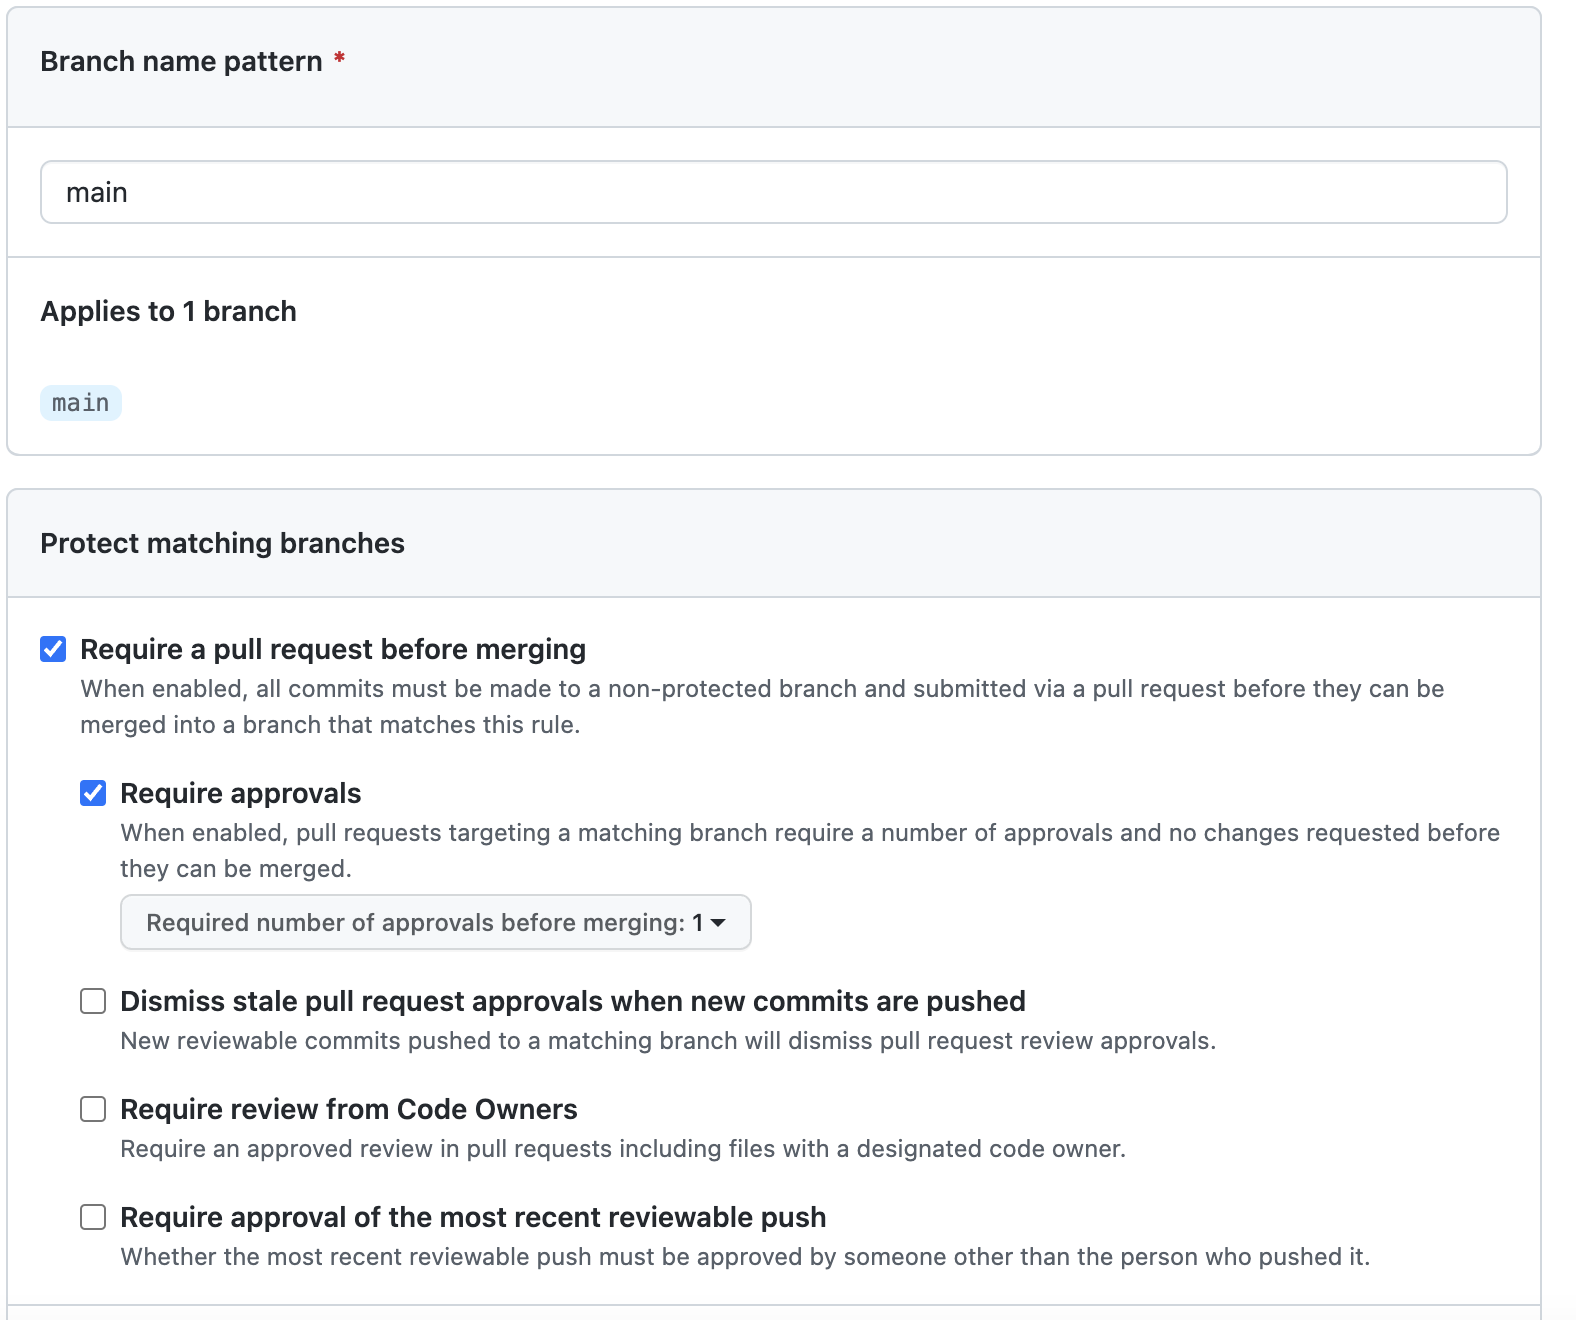
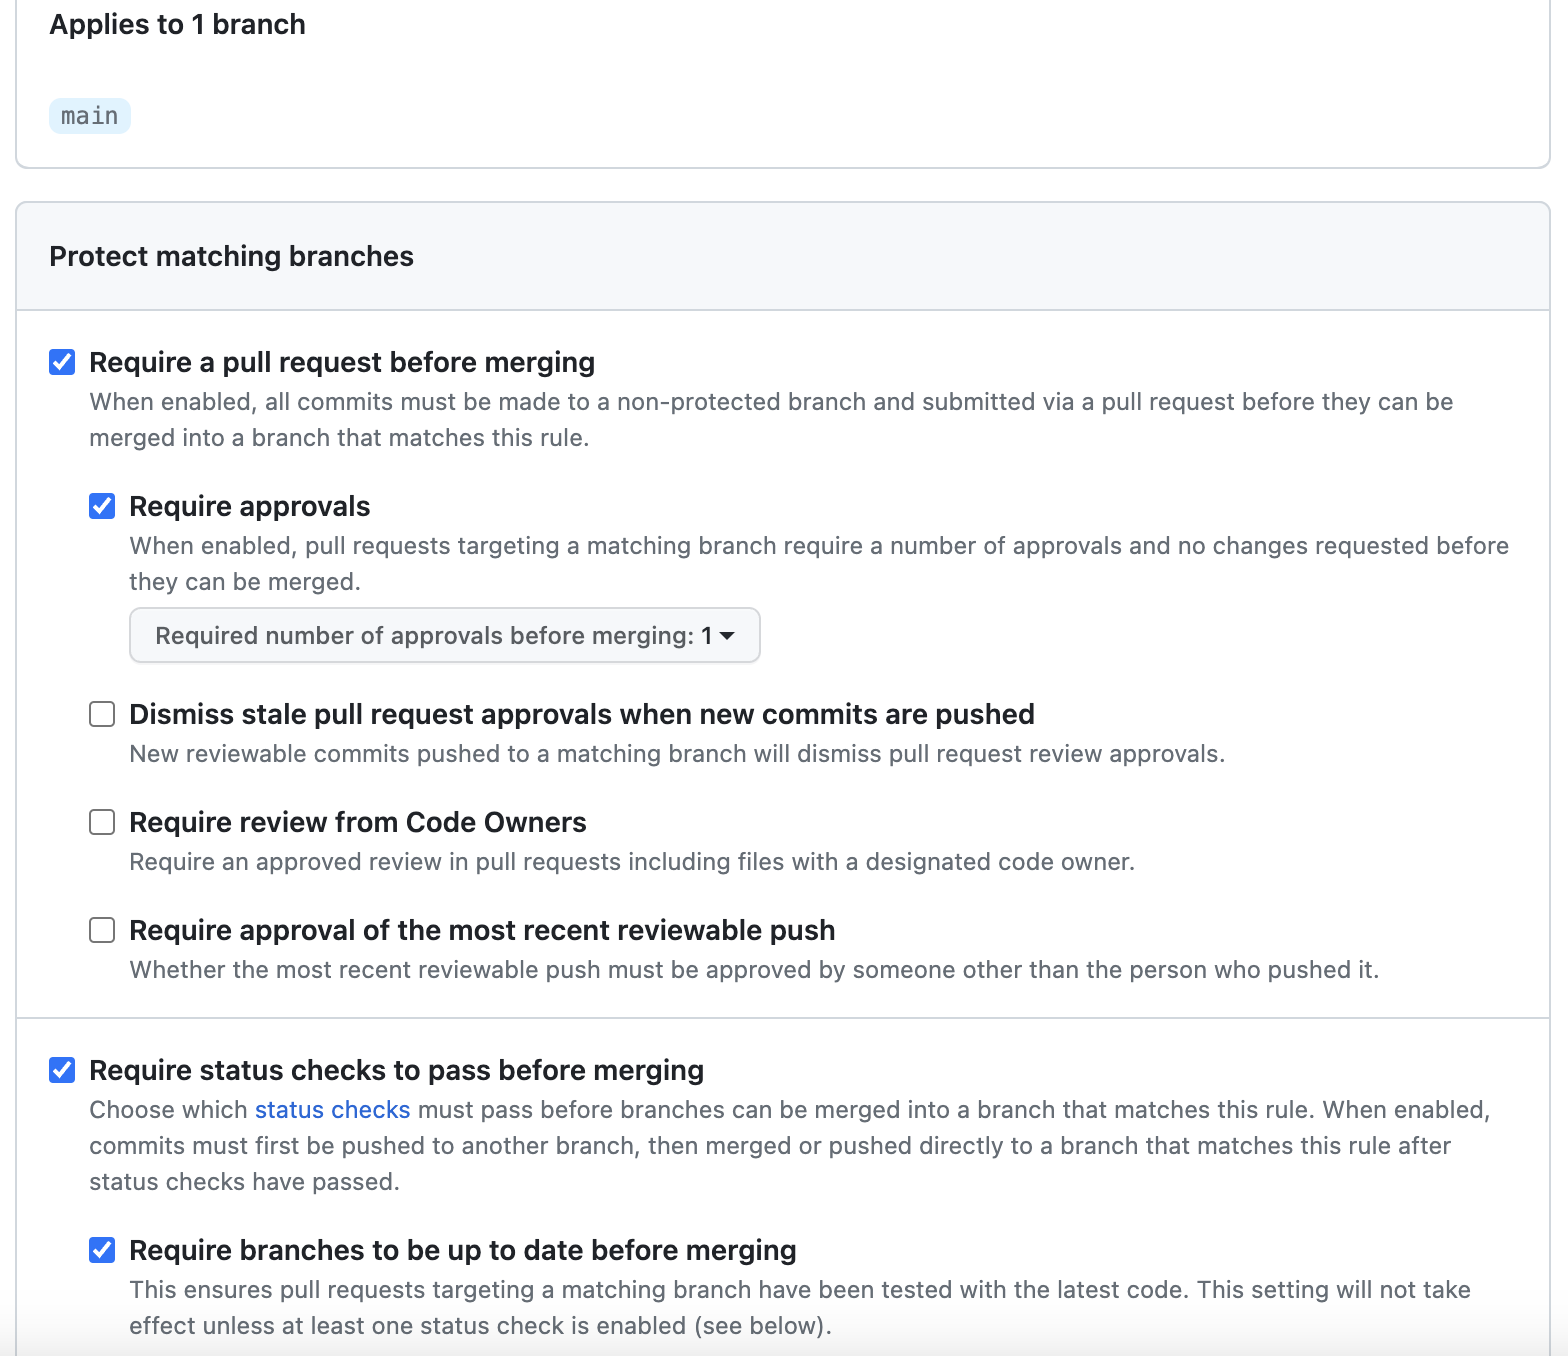
update README

diff --git a/README.md b/README.md
@@ -9,6 +9,8 @@ I am assuming `main` branch is a protection branch, and setting branch protectio
 1. Enable the following settings
     1. Require a pull request before merging
     1. Require approvals
+    1. Require status checks to pass before merging -> Prevent merging pull requests with failing build
+    1. Require branches to be up to date before merging
 
 See the following picture:
 ![alt text](pictures/actions-automerge-dependabot-prs01.png)
